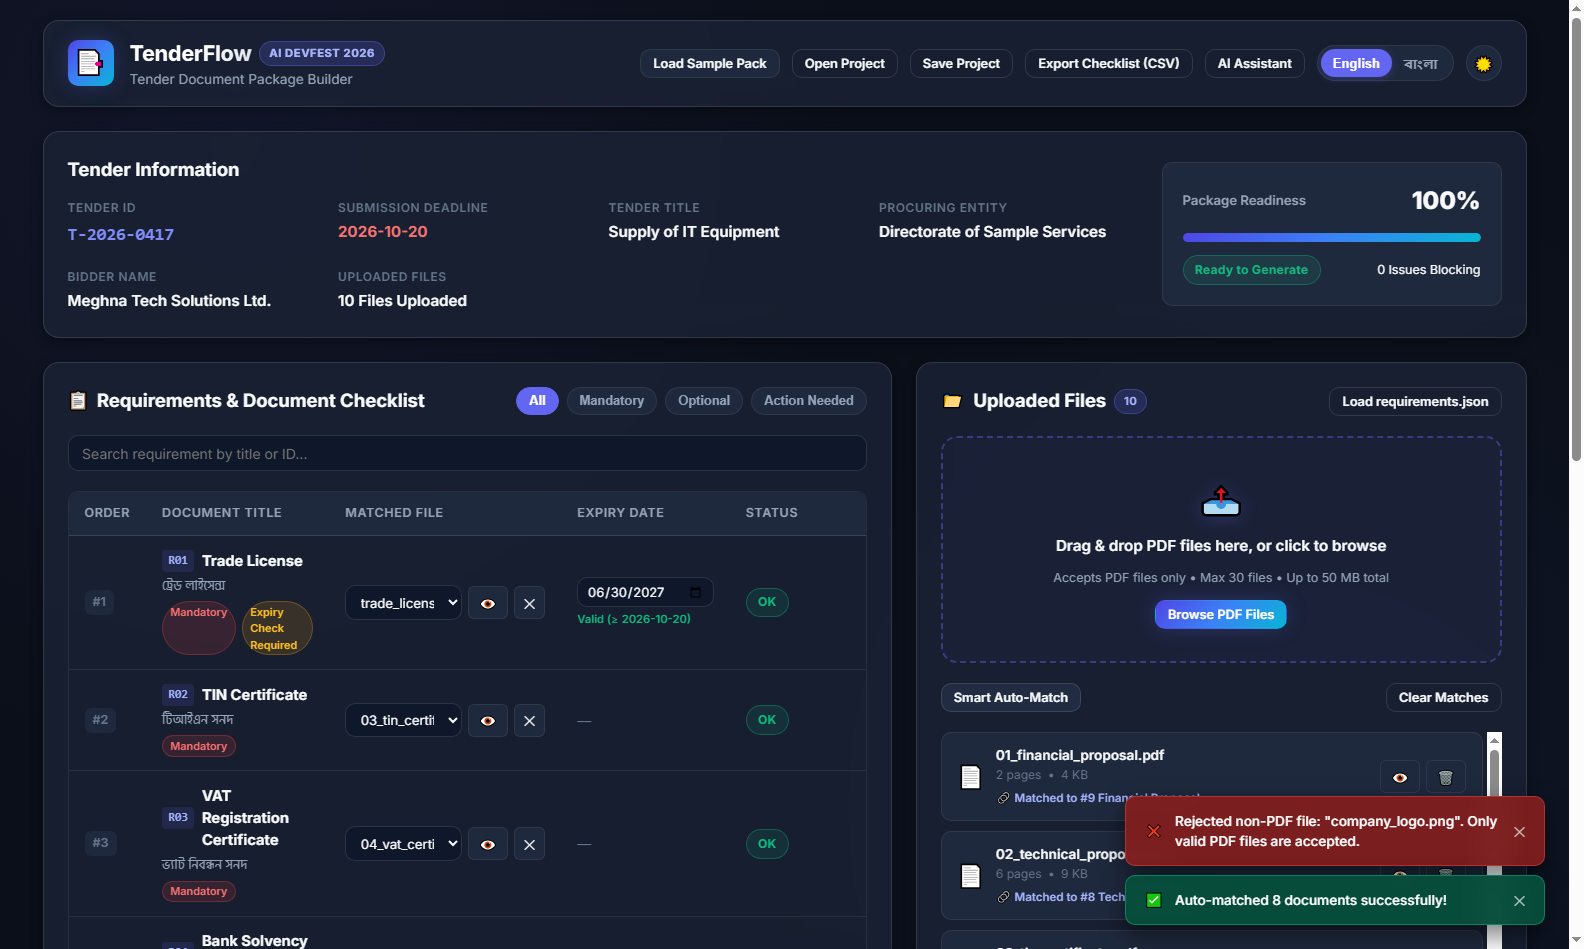
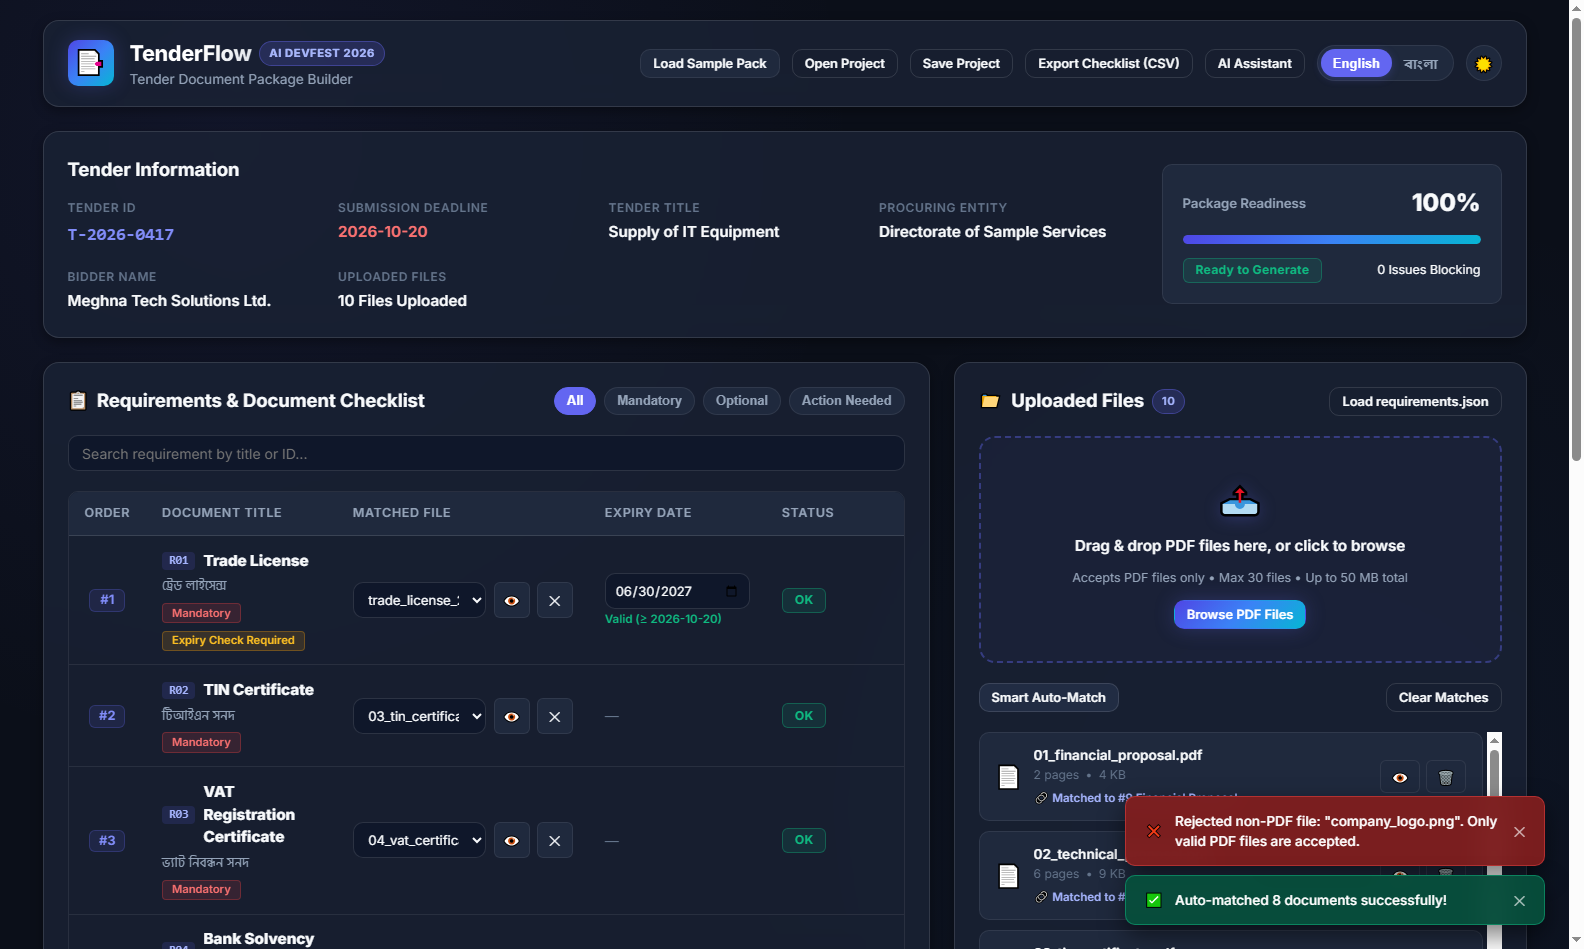
fix(ui): resolve table badge alignment and chip layout wrapping
Prompt: Fix table row alignment, type-pill wrapping, order badge centering, and input heights.

diff --git a/css/style.css b/css/style.css
@@ -586,6 +586,13 @@ body {
   letter-spacing: 0.05em;
   padding: 0.75rem 1rem;
   border-bottom: 1px solid var(--border-card);
+  vertical-align: middle;
+}
+
+.req-table th:first-child,
+.req-table td:first-child {
+  text-align: center;
+  width: 65px;
 }
 
 .req-table td {
@@ -603,19 +610,25 @@ body {
 }
 
 .order-badge {
-  font-size: 0.78rem;
+  font-size: 0.8rem;
   font-weight: 700;
-  color: var(--text-dim);
-  background: var(--bg-tertiary);
-  padding: 0.2rem 0.5rem;
-  border-radius: var(--radius-sm);
-  display: inline-block;
+  color: #818cf8;
+  background: rgba(99, 102, 241, 0.12);
+  border: 1px solid rgba(99, 102, 241, 0.25);
+  padding: 0.25rem 0.5rem;
+  border-radius: 6px;
+  display: inline-flex;
+  align-items: center;
+  justify-content: center;
+  min-width: 36px;
+  line-height: 1;
 }
 
 .req-title-group {
   display: flex;
   flex-direction: column;
-  gap: 0.25rem;
+  gap: 0.3rem;
+  justify-content: center;
 }
 
 .req-title-primary {
@@ -623,35 +636,50 @@ body {
   align-items: center;
   gap: 0.5rem;
   color: var(--text-main);
-  font-size: 0.92rem;
+  font-size: 0.95rem;
+  font-weight: 600;
 }
 
 .req-id-tag {
   font-size: 0.72rem;
   font-family: monospace;
   font-weight: 700;
-  padding: 0.15rem 0.4rem;
+  padding: 0.18rem 0.45rem;
   background: rgba(99, 102, 241, 0.15);
   color: #a5b4fc;
   border-radius: 4px;
+  line-height: 1;
+  display: inline-flex;
+  align-items: center;
+  justify-content: center;
 }
 
 .req-title-alt {
-  font-size: 0.8rem;
+  font-size: 0.82rem;
   color: var(--text-muted);
+  line-height: 1.3;
 }
 
 .req-meta-badges {
   display: flex;
-  gap: 0.4rem;
-  margin-top: 0.15rem;
+  align-items: center;
+  gap: 0.45rem;
+  margin-top: 0.25rem;
+  flex-wrap: wrap;
 }
 
 .type-pill {
-  font-size: 0.68rem;
+  display: inline-flex;
+  align-items: center;
+  justify-content: center;
+  gap: 0.3rem;
+  font-size: 0.7rem;
   font-weight: 600;
-  padding: 0.1rem 0.45rem;
-  border-radius: var(--radius-full);
+  line-height: 1;
+  padding: 0.22rem 0.55rem;
+  border-radius: 4px;
+  white-space: nowrap;
+  flex-shrink: 0;
 }
 
 .pill-mandatory {
@@ -676,8 +704,23 @@ body {
 .match-file-group {
   display: flex;
   align-items: center;
-  gap: 0.4rem;
-  min-width: 200px;
+  gap: 0.45rem;
+  min-width: 220px;
+}
+
+.match-file-group .form-select {
+  height: 36px;
+  flex: 1;
+}
+
+.match-file-group .btn-icon {
+  height: 36px;
+  width: 36px;
+  display: inline-flex;
+  align-items: center;
+  justify-content: center;
+  flex-shrink: 0;
+  font-size: 0.9rem;
 }
 
 .form-select {
@@ -703,7 +746,12 @@ body {
   display: flex;
   flex-direction: column;
   gap: 0.25rem;
-  min-width: 130px;
+  min-width: 145px;
+  justify-content: center;
+}
+
+.expiry-input-container .expiry-input {
+  height: 36px;
 }
 
 .expiry-input {
@@ -712,8 +760,9 @@ body {
 }
 
 .expiry-hint {
-  font-size: 0.7rem;
+  font-size: 0.72rem;
   font-weight: 600;
+  line-height: 1.2;
 }
 
 .hint-expired {
@@ -732,13 +781,15 @@ body {
 .status-pill {
   display: inline-flex;
   align-items: center;
+  justify-content: center;
   gap: 0.35rem;
   font-size: 0.76rem;
   font-weight: 700;
-  padding: 0.3rem 0.7rem;
-  border-radius: var(--radius-full);
+  padding: 0.35rem 0.75rem;
+  border-radius: 6px;
   letter-spacing: 0.02em;
   white-space: nowrap;
+  line-height: 1;
 }
 
 .badge-ok {
